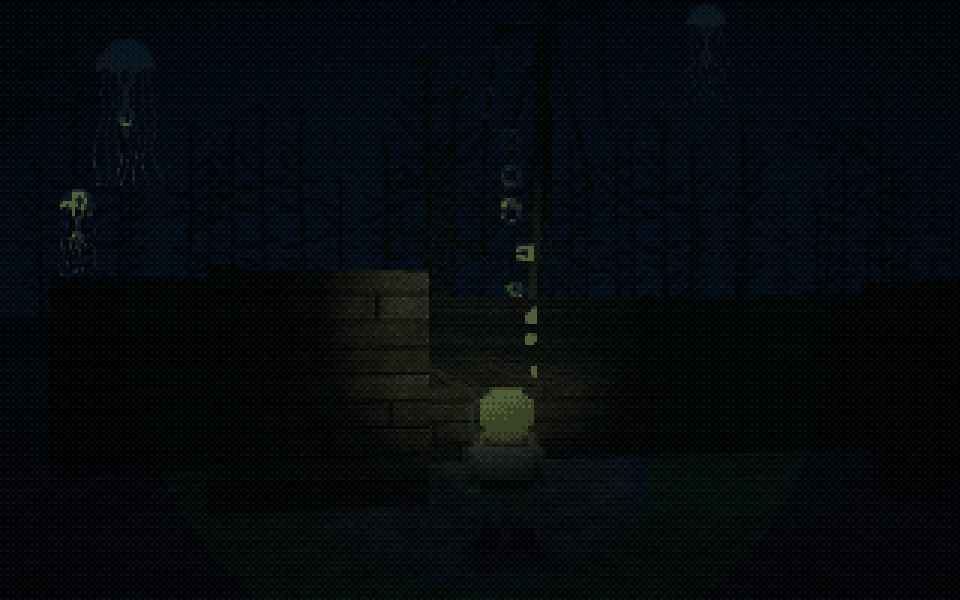
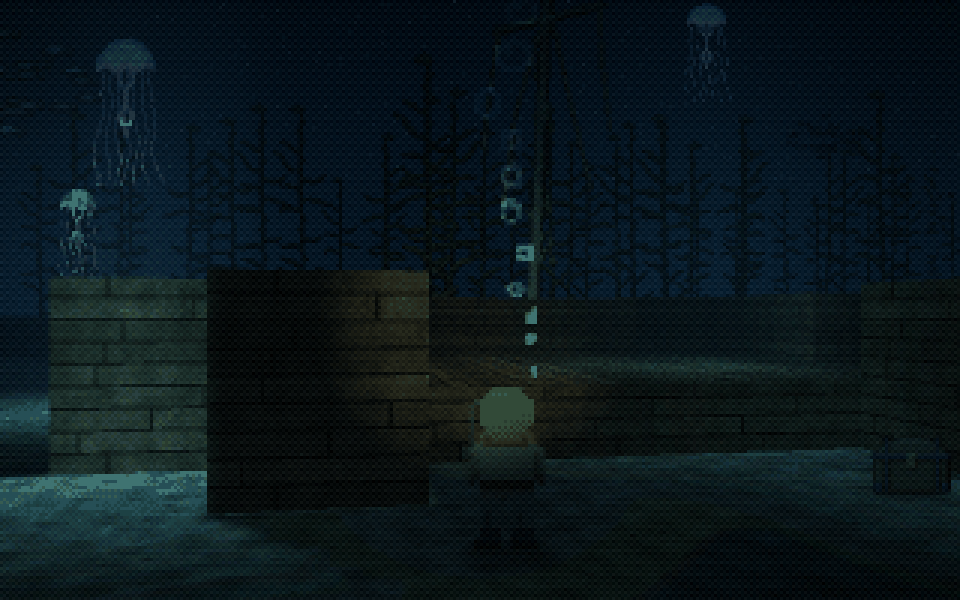
Let the jellyfish light the night dive
The kelp forest's night dive was nearly black at a glance. Each jellyfish now casts a soft cyan
light of its own, the ambient is lifted a little and the fog thinned, so the wreck, the kelp and
the diver with his bubbles read round the flashlight's pool. Gallery: sea_night.

diff --git a/examples/kelp_forest.py b/examples/kelp_forest.py
@@ -87,8 +87,10 @@ def kelp_forest():
             {'x': 23.0, 'y': 28.0, 'look_at': [13.0, 16.0, 2.2], 'fov': 70, 'height': 1.2},
             {'x': 16.6, 'y': 24.6, 'look_at': [17.6, 19.0, 1.0], 'fov': 64, 'height': 0.9, 'flashlight': True,
              'extra_sprites': night,
-             'overrides': {'sky': 'night', 'ambient': [0.03, 0.06, 0.08], 'lights': [],
-                           'fog': {'color': [0.0, 0.04, 0.06], 'density': 0.04, 'glow': 1.0}}},
+             'overrides': {'sky': 'night', 'ambient': [0.05, 0.09, 0.12],
+                           'lights': [{'x': j['x'], 'y': j['y'], 'z': j['z'], 'radius': 3.0, 'color': [0.55, 0.85, 1.0],
+                                       'intensity': 1.1} for j in night],            # the jellyfish light the water
+                           'fog': {'color': [0.0, 0.05, 0.08], 'density': 0.03, 'glow': 1.0}}},
         ],
         contact_shadows=0.5,
         supersample=2,
